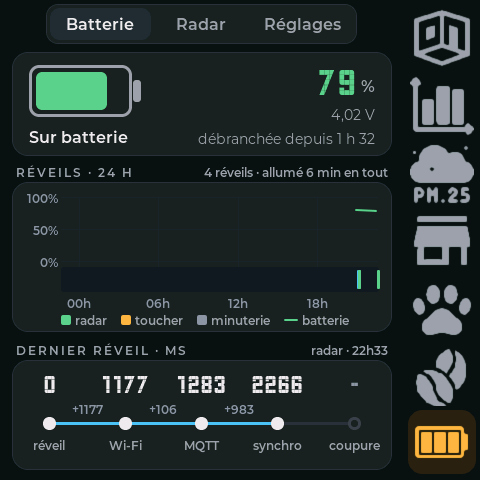
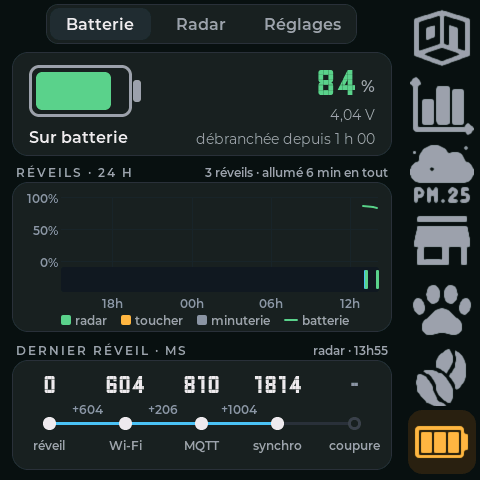
README : navigation avec la lueur de chauffe et la page Informations à jour ; écran sur batterie avec ses trois onglets
- Animation de navigation : départ sur la page Informations (deux nouvelles lignes), puis Confort : HA confirme, la
  chaudière démarre, la lueur s'allume (simulateur)
- Écran sur batterie : onglets Batterie (réveil radar de 13h55, firmware aux anneaux pré-rendus) et Réglages pris sur
  l'écran réel, Radar au simulateur

diff --git a/simu/simu.cpp b/simu/simu.cpp
@@ -3000,8 +3000,13 @@ int main()
             t += 400;
             toucher(348, 442); // Confort
             doigt_pose = false; // relâché : le clic part, l'anneau balaie
-            for (int k = 0; k <= 450; k += 50)
+            for (int k = 0; k <= 1200; k += 50)
             {
+                if (k == 300) // 14/11 : HA confirme le préréglage et la chaudière démarre : la lueur de chauffe s'allume
+                {
+                    tp.mode = TH_CONFORT, tp.consigne = 20, tp.chauffe = true;
+                    page_thermostat_maj();
+                }
                 avancer(k == 0 ? 10 : 50);
                 t += k == 0 ? 10 : 50;
                 snprintf(nom, sizeof nom, "anim_rail_%03d", t);

diff --git a/README.fr.md b/README.fr.md
@@ -136,13 +136,15 @@ reste du temps. C'est le même firmware que les écrans muraux : l'écran se rec
 - **Carte modifiée** pour libérer des broches et ne rien laisser consommer en veille ; **boîtier dessiné
   de A à Z**, fichiers STL fournis.
 
-Il a deux pages à lui :
+Il a une page à lui, épinglée en bas du rail, en trois onglets :
 
-<img src="docs/images/page-batterie.png" width="300" alt="Page Batterie"> <img src="docs/images/page-radar.png" width="300" alt="Page Radar">
+<img src="docs/images/page-batterie.png" width="260" alt="Page Batterie, onglet Batterie"> <img src="docs/images/page-radar.png" width="260" alt="Page Batterie, onglet Radar"> <img src="docs/images/page-batterie-reglages.png" width="260" alt="Page Batterie, onglet Réglages">
 
-*À gauche, **Batterie** : charge, réveils sur 24 h, détail du dernier réveil en millisecondes, comptées
-depuis le lancement du programme, environ 0,5 s après le réveil de la puce (capture de l'écran réel du séjour,
-réveil par le radar à 22h33). À droite, **Radar** : zones, sensibilité, réglage automatique, test sur place.*
+**Batterie** : charge, réveils sur 24 h, détail du dernier réveil en millisecondes, comptées depuis le lancement
+du programme, environ 0,5 s après le réveil de la puce (capture de l'écran réel du séjour, réveil par le radar à
+13h55). **Radar** : zones, sensibilité, réglage automatique, test sur place (simulateur). **Réglages** : gestion
+de l'énergie — coupure du Wi-Fi après la synchro, délai de l'économie, puissance Wi-Fi, marge du réglage auto
+(écran réel).
 
 Câblage, modifications de la carte, mesures et boîtier : [materiel/ecran-batterie/](materiel/ecran-batterie/).
 

diff --git a/README.md b/README.md
@@ -136,13 +136,14 @@ It runs the same firmware as the wall displays: the display recognizes itself by
 - **Modified board** to free pins and leave nothing drawing current in sleep; **case designed from
   scratch**, STL files included.
 
-It has two pages of its own:
+It has a page of its own, pinned at the bottom of the rail, with three tabs:
 
-<img src="docs/images/page-batterie.png" width="300" alt="Battery page"> <img src="docs/images/page-radar.png" width="300" alt="Radar page">
+<img src="docs/images/page-batterie.png" width="260" alt="Battery page, Battery tab"> <img src="docs/images/page-radar.png" width="260" alt="Battery page, Radar tab"> <img src="docs/images/page-batterie-reglages.png" width="260" alt="Battery page, Settings tab">
 
-*Left, **Battery**: charge, wake-ups over 24 h, breakdown of the last wake-up in milliseconds, counted
-from the program start, about 0.5 s after the chip wakes up (capture from the real living-room display, radar
-wake-up at 22:33). Right, **Radar**: zones, sensitivity, automatic tuning, on-the-spot test.*
+**Battery**: charge, wake-ups over 24 h, breakdown of the last wake-up in milliseconds, counted from the program
+start, about 0.5 s after the chip wakes up (capture from the real living-room display, radar wake-up at 13:55).
+**Radar**: zones, sensitivity, automatic tuning, on-the-spot test (simulator). **Settings**: power management —
+Wi-Fi off after the sync, economy delay, Wi-Fi power, automatic tuning margin (real display).
 
 Wiring, board modifications, measurements and case: [materiel/ecran-batterie/README.en.md](materiel/ecran-batterie/README.en.md).
 
